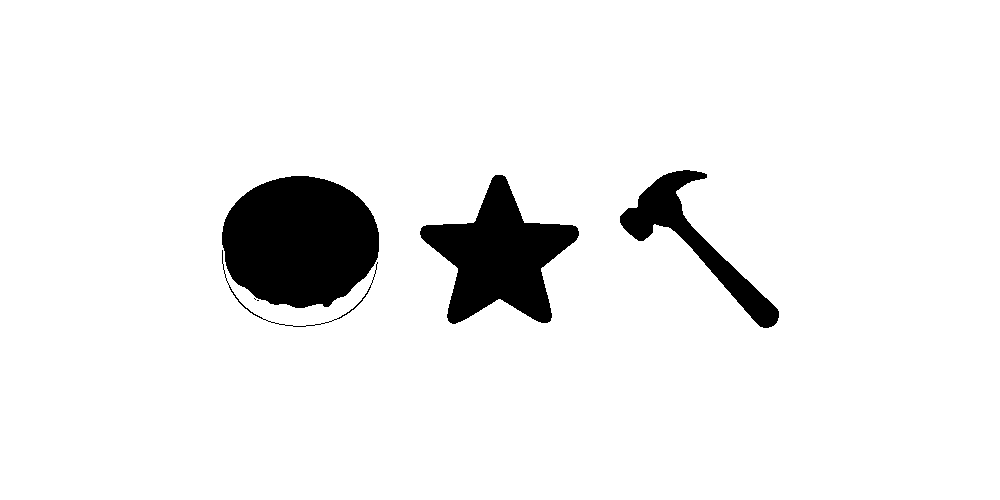
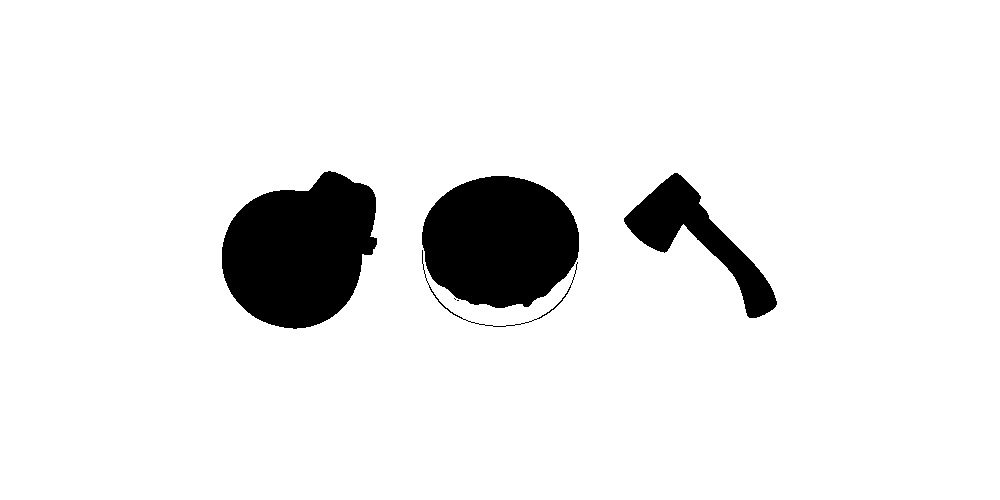
environment prepared for the agent

diff --git a/train-model/environment.py b/train-model/environment.py
@@ -1,0 +1,176 @@
+import sys
+import random
+import io
+import cv2
+import numpy as np
+from PIL import Image
+from PyQt5.QtCore import Qt, QBuffer, QRect, QTimer
+from PyQt5.QtGui import QPixmap
+from PyQt5.QtWidgets import QApplication, QLabel, QMainWindow, QHBoxLayout, QWidget, QPushButton, QVBoxLayout, QFrame
+
+class Scratch_Game_Environment():
+
+    emoji_bboxes = [
+            (218, 168, 218+164, 168+164),  # Emoji 1 (x1, y1, x2, y2)
+            (418, 168, 418+164, 168+164),  # Emoji 2
+            (618, 168, 618+164, 168+164),  # Emoji 3
+    ]
+    
+    def __init__(self, frame_size: int, initial_push: bool):
+        self.images = []
+        self.emoji_labels = []
+        self.scratched_count = 0  
+        self.total_squares = 0 
+        self.FRAME_SIZE = frame_size
+        self.squares: list[QFrame] = []
+        self.emoji_scratch_track = {i: set() for i in range(len(self.emoji_bboxes))}
+        # --------------------------------------------
+        self.app = QApplication([])
+        self.window = QMainWindow()
+        self.window.setWindowTitle("RL Model Scratch & Win")
+        self.window.setGeometry(500, 250, 1000, 500) # 1000x500
+
+        self.display_emojis()
+        contour_mask = self.get_contours_mask()
+        self.add_scratching_frames(np.asarray(contour_mask))
+
+        if initial_push:
+            random_percentage = random.randint(50, 85)
+            squares_to_remove = int(self.total_squares * (random_percentage / 100))
+            random.shuffle(self.squares)
+            for i in range(squares_to_remove): # funciona
+                square = self.squares[i]  
+                frame_pos = square.pos() 
+                x, y = frame_pos.x(), frame_pos.y()
+                self.remove_square(square, (x, y))
+
+        self.close_button = QPushButton("Finish Game", self.window)
+        self.close_button.setGeometry(450, 450, 100, 40)  
+        self.close_button.clicked.connect(self.calculate_scratched_percentage)
+    
+    def get_window_image_and_save(self, save: bool, file_name: str) -> Image.Image:
+        """Get window state and optionally save as an image."""
+        
+        screenshot = self.window.grab()
+        q_image = screenshot.toImage()
+        if save:
+            q_image.save(file_name)
+
+        buffer = QBuffer()
+        buffer.open(QBuffer.ReadWrite)
+        q_image.save(buffer, "PNG")
+        pil_image = Image.open(io.BytesIO(buffer.data()))
+
+        return pil_image.copy()
+
+    def display_emojis(self) -> None:
+        """Place 3 emojis alligned in the center of the window"""
+
+        symbols = ["hammer.png", "axe.png", "bomb.png", "doughnut.png", "star.png"]
+        emojis = random.choices(symbols, k=3)
+
+        vertical_layout = QVBoxLayout()
+        vertical_layout.setAlignment(Qt.AlignmentFlag(0))  # vertical 'Qt.AlignCenter'
+
+        h_layout = QHBoxLayout()
+        h_layout.setAlignment(Qt.AlignmentFlag(4))  # horizontal 'Qt.AlignCenter'
+        h_layout.setSpacing(40)  # space between emojis
+
+        for emoji in emojis:
+            pixmap = QPixmap(f"emojis/{emoji}") 
+            label = QLabel(self.window)  # QLabel to display the image
+            label.setPixmap(pixmap)  # image to the label
+            h_layout.addWidget(label)  # label to the layout
+            self.emoji_labels.append(label)
+
+        # Add horizontal layout into the vertical layout
+        vertical_layout.addLayout(h_layout)
+
+        # Add vertical layout into the window
+        central_widget = QWidget(self.window)
+        central_widget.setLayout(vertical_layout)
+        self.window.setCentralWidget(central_widget)
+
+    def get_contours_mask(self) -> Image.Image:
+        """Gets initial image and creates the symbol's contours"""
+
+        pil_image = self.get_window_image_and_save(False, "1-dinamic-figures.png")
+
+        gray = cv2.cvtColor(np.asarray(pil_image), cv2.COLOR_BGR2GRAY)
+        edges = cv2.Canny(gray, 100, 200)
+        kernel = np.ones((3, 3), np.uint8)  # Adjust kernel size as needed
+        dilated_edges = cv2.dilate(edges, kernel, iterations=1)
+        contours, _ = cv2.findContours(dilated_edges, cv2.RETR_EXTERNAL, cv2.CHAIN_APPROX_SIMPLE)
+        background = np.ones_like(pil_image) * 255  # White background
+
+        numpy_contours = cv2.drawContours(background, contours, -1, (0, 0, 0), thickness=cv2.FILLED)  # black fill, BGR mode
+        contour_mask = Image.fromarray(numpy_contours).convert("L") # to gray scale
+
+        return contour_mask
+
+    def add_scratching_frames(self, contour_mask: np.ndarray) -> None:
+        """Add all the scratchable areas and update a dictionary of frames with black mask pixels."""
+
+        square_size = self.FRAME_SIZE
+        start_x = 110 
+        start_y = 98
+        rect_width = 770
+        rect_height = 300
+
+        for x in range(start_x, start_x + rect_width, square_size):
+            for y in range(start_y, start_y + rect_height, square_size):
+                frame_bbox = (x, y, x + square_size, y + square_size)
+
+                frame = QFrame(self.window)
+                frame.setGeometry(QRect(x, y, square_size, square_size))
+                frame.setStyleSheet("background-color: blue")
+
+                for i, (ex1, ey1, ex2, ey2) in enumerate(self.emoji_bboxes):
+                    # Calculate the intersection area between the frame and emoji bounding box
+                    ix1, iy1 = max(x, ex1), max(y, ey1)
+                    ix2, iy2 = min(x + square_size, ex2), min(y + square_size, ey2)
+
+                    mask_area = contour_mask[iy1:iy2, ix1:ix2]
+                    if np.any(mask_area == 0):  # Check for black pixels in the mask
+                        self.emoji_scratch_track[i].add(frame_bbox)
+                        frame.setStyleSheet("background-color: red")
+
+                frame.mousePressEvent = lambda event, s=frame, coords=(x, y): self.remove_square(s, coords)
+                self.squares.append(frame)
+        self.total_squares = len(self.squares)
+
+    def remove_square(self, frame: QFrame, frame_coords: tuple[int, int]) -> None:
+        """Function to remove a square, update the count, and check for symbol overlap and emoji completion."""
+
+        frame.hide() 
+        self.scratched_count += 1 
+        x, y = frame_coords
+        frame_bbox = (x, y, x + self.FRAME_SIZE, y + self.FRAME_SIZE)
+
+        for i in range(len(self.emoji_scratch_track)):
+            if frame_bbox in self.emoji_scratch_track[i]:
+                self.emoji_scratch_track[i].remove(frame_bbox)
+                if len(self.emoji_scratch_track[i]) == 0: # all emoji parts have been removed
+                    print("Congratulations!", f"You revealed Emoji {i+1}!")
+                    if all(not s for s in self.emoji_scratch_track.values()): # if all sets are empty
+                        print("¡¡¡ All emojis revealed !!!")
+                        break
+
+    def calculate_scratched_percentage(self) -> None:
+        """Function to calculate and display scratched percentages"""
+
+        final_percentage_scratched = (self.scratched_count / len(self.squares)) * 100
+        print(f"Final scratched area: {final_percentage_scratched:.2f}%")
+        self.window.close()
+
+    def show_results(self) -> None:
+        """Display the game situation whenever needed"""
+
+        # QTimer.singleShot(500, self.close_button.click)
+        self.window.show()
+        sys.exit(self.app.exec_())
+
+"""----------------------------------------------------------------------------"""
+
+my_game = Scratch_Game_Environment(frame_size=20, initial_push=False)
+my_game.show_results()

diff --git a/train-model/auxiliar.py b/train-model/auxiliar.py
@@ -1,0 +1,77 @@
+import sys
+import random
+from PyQt5.QtWidgets import QApplication, QPushButton, QVBoxLayout, QWidget, QLabel
+from PyQt5.QtCore import QTimer
+
+class MyEnvironment:
+    def __init__(self, app, window, label, button):
+        self.app = app
+        self.window = window
+        self.label = label
+        self.button = button
+        self.state = 0  # Example: 0 means "not clicked", 1 means "clicked"
+        self.reward = 0
+        self.done = False
+
+    def observe(self):
+        """Return the current state as an observation."""
+        return self.state
+
+    def act(self, action):
+        """Perform an action and update the environment."""
+        if action == 0:
+            # Do nothing
+            self.label.setText("Agent did nothing.")
+        elif action == 1:
+            # Press the button
+            self.label.setText("Agent pressed the button!")
+            self.button.click()
+            self.state = 1
+            self.reward = 10  # Assign a reward
+            self.done = True  # End the episode
+
+        return self.observe(), self.reward, self.done
+
+    def reset(self):
+        """Reset the environment for a new episode."""
+        self.state = 0
+        self.reward = 0
+        self.done = False
+        self.label.setText("Environment reset!")
+        return self.observe()
+
+# PyQt Window
+class MyWindow(QWidget):
+    def __init__(self):
+        super().__init__()
+        self.layout = QVBoxLayout()
+        self.label = QLabel("Environment initialized.")
+        self.button = QPushButton("Click Me!")
+        self.layout.addWidget(self.label)
+        self.layout.addWidget(self.button)
+        self.setLayout(self.layout)
+
+# RL Training Loop
+def train_rl_agent():
+    env = MyEnvironment(app, window, window.label, window.button)
+    num_episodes = 10
+
+    for episode in range(num_episodes):
+        print(f"Episode {episode + 1}")
+        state = env.reset()
+        done = False
+
+        while not done:
+            action = random.choice([0, 1])  # Randomly choose an action (0: do nothing, 1: click)
+            next_state, reward, done = env.act(action)
+            print(f"Action: {action}, State: {next_state}, Reward: {reward}, Done: {done}")
+
+# Main PyQt App
+app = QApplication(sys.argv)
+window = MyWindow()
+window.show()
+
+# Run RL training after the app starts
+QTimer.singleShot(1000, train_rl_agent)
+
+sys.exit(app.exec_())

diff --git a/phase6-final-game.py b/phase6-final-game.py
@@ -150,8 +150,6 @@ app = QApplication([])
 window = QMainWindow()
 window.setWindowTitle("RL Model Scratch & Win")
 window.setGeometry(500, 250, 1000, 500) # 1000x500
-# central_widget = QWidget(window)
-# window.setCentralWidget(central_widget)
 
 # 1: Display emojis
 display_emojis(window)
@@ -161,18 +159,18 @@ contour_mask = get_contours_mask() # PIL image
 
 # 3: Add scratching layer
 # 4: Check removed frames and warn if symbol found
-squares, emoji_scratch_track = add_scratching_frames(window, np.asarray(contour_mask))  # Example dimensions
+squares, emoji_scratch_track = add_scratching_frames(window, np.asarray(contour_mask))
 
-# for automatic initial scratch
 total_squares = len(squares)
 random_percentage = random.randint(80, 90)
 squares_to_remove = int(total_squares * (random_percentage / 100))
-random.shuffle(squares)
-for i in range(squares_to_remove): # funciona
-    square = squares[i]  
-    frame_pos = square.pos() 
-    x, y = frame_pos.x(), frame_pos.y()
-    remove_square(square, (x, y), FRAME_SIZE, emoji_scratch_track)
+# for automatic initial scratch
+# random.shuffle(squares)
+# for i in range(squares_to_remove): # funciona
+#     square = squares[i]  
+#     frame_pos = square.pos() 
+#     x, y = frame_pos.x(), frame_pos.y()
+#     remove_square(square, (x, y), FRAME_SIZE, emoji_scratch_track)
 
 # background image
 background_pixmap = QPixmap("utils/space.jpg")  

diff --git a/train-model/mainV1.py b/train-model/mainV1.py
@@ -1,0 +1,16 @@
+import sys
+import random
+import io
+import cv2
+import numpy as np
+from PIL import Image
+from PyQt5.QtCore import Qt, QBuffer, QRect, QTimer
+from PyQt5.QtGui import QPixmap, QImage, QBrush, QPalette
+from PyQt5.QtWidgets import QApplication, QLabel, QMainWindow, QHBoxLayout, QWidget, QPushButton, QVBoxLayout, QFrame
+
+from environment import Scratch_Game_Environment
+
+
+my_game = Scratch_Game_Environment(frame_size=20, initial_push=True)
+QTimer.singleShot(1000, my_game.close_button.click)
+my_game.show_results()
